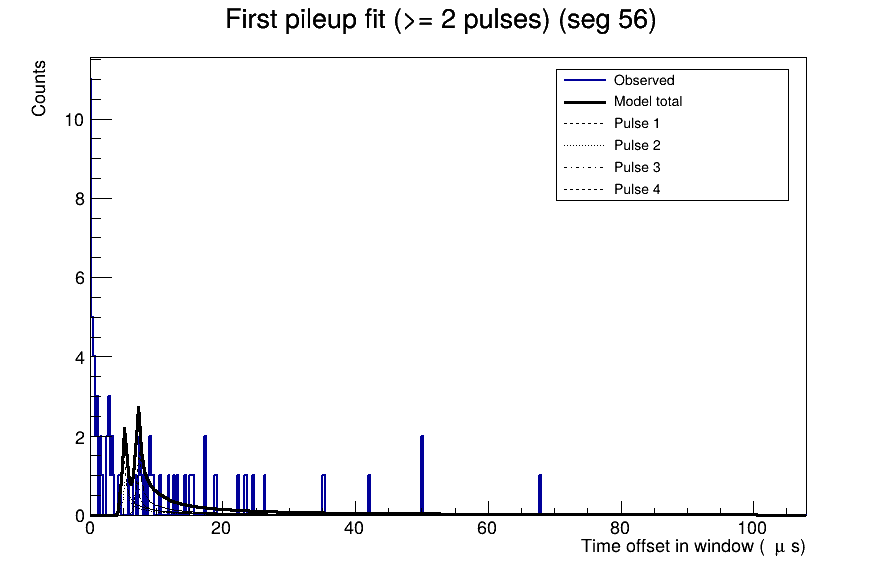
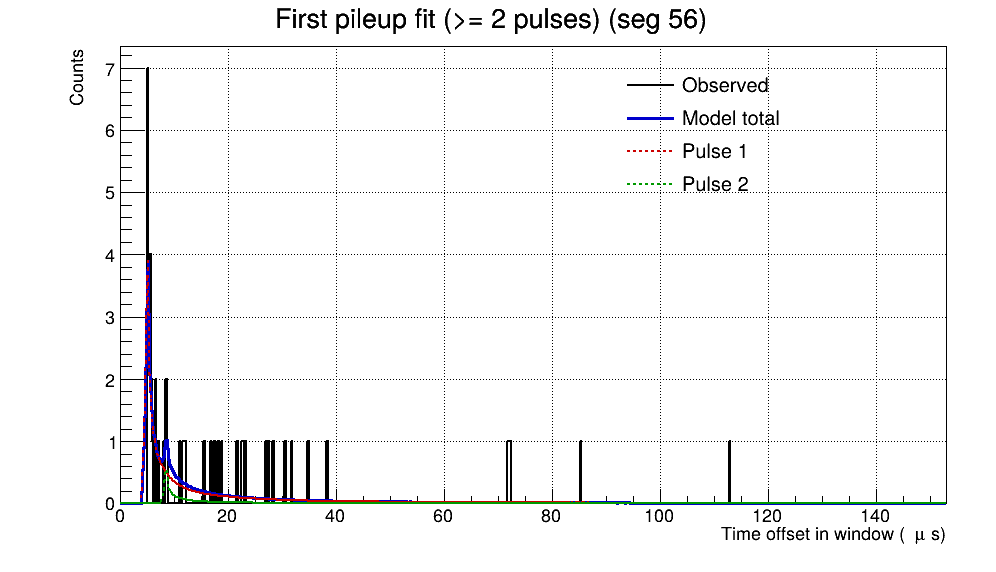
Fixed Plotting Alg.

diff --git a/src/Pulse_Fitting.cpp b/src/Pulse_Fitting.cpp
@@ -5,12 +5,32 @@
 #include <nlopt.hpp>
 #include <iostream>
 #include <limits>
+#include <stdexcept>
 
 using namespace std;
 
-std::vector<double> makeLogFactorialTable(int max_k) {
+static void dump_params_bounds(const vector<double>& params,
+                                const vector<double>& lb,
+                                const vector<double>& ub,
+                                int nPulses,
+                            const char* tag) 
+{
+    cerr << "\n=== NLopt debug dump: " << tag << " ===\n";
+    cerr << "nPulses=" << nPulses
+              << "  nParams=" << params.size() << " (PE[" << nPulses
+              << "], DT[" << nPulses << "])\n";
+    for (size_t i = 0; i < params.size(); ++i) {
+        string kind = (i < (size_t)nPulses) ? "PE" : "DT";
+        cerr << "  [" << std::setw(2) << i << "] " << kind
+                  << " : " << params[i]
+                  << "  bounds: [" << lb[i] << ", " << ub[i] << "]\n";
+    }
+    cerr << "=== end dump ===\n\n";
+}
+
+vector<double> makeLogFactorialTable(int max_k) {
     // precompute log(k!) for small k (speed Poisson logL at low counts)
-    std::vector<double> table(max_k);
+    vector<double> table(max_k);
     for (int k = 0; k < max_k; ++k) {
         table[k] = std::lgamma(k + 1.0);
     }
@@ -135,6 +155,19 @@ bool Pulse_Fitting::makeHistogram(const vector<double>& times, int i, double bin
         }
     }
 
+    // --- NEW: prepend 5 us worth of empty bins so fitter origin is at -5 us (due to PDF generate algorithm in Pulse_Tail.cpp) ---
+    const double prepad_us = 5.0;
+    int pre_bins = static_cast<int>(std::llround(prepad_us / binWidth));
+    if (pre_bins > 0) {
+        hist.insert(hist.begin(), pre_bins, 0);
+
+        // rebuild xCenters to stay aligned (0, 1*binWidth, ...)
+        vector<double>newX(hist.size());
+        for (size_t b = 0; b < newX.size(); ++b) newX[b] = b * binWidth;
+        xCenters.swap(newX);
+    }
+    // --- end NEW (August 20, 2025) ---
+
     return true;
 }
 
@@ -200,40 +233,18 @@ void Pulse_Fitting::fitRegion(const vector<double>& data_us,
                 return std::make_pair(std::move(total), std::move(comps));
             };
 
-            auto [totalExp, comps] = build_components(fittedPEs, fittedDTs, pdfLookup);
-            
-            cout << "PE: " << endl;
-            for (const auto& val : fittedPEs) cout << val << ", ";
-            cout << "\n" << endl;
-            cout << "DT: " << endl;
-            for (const auto& val : fittedDTs) cout << val << ", ";
-            cout << "\n" << endl;
-
-            cout << "=== CAPTURE DEBUG (" << (need_single ? "single" : "pileup") << ") ===" << endl;
-
-            // hist
-            cout << "hist: ";
-            for (auto v : hist) cout << v << " ";
-            cout << endl;
-
-            // xCenters
-            cout << "xCenters: ";
-            for (auto v : xCenters) cout << v << " ";
-            cout << endl;
-
-            // total expectation
-            cout << "total: ";
-            for (auto v : totalExp) cout << v << " ";
-            cout << endl;
-
-            // components
-            for (size_t k = 0; k < comps.size(); ++k) {
-                cout << "comp[" << k << "]: ";
-                for (auto v : comps[k]) cout << v << " ";
-                cout << endl;
+            for (size_t k = 0; k < fittedDTs.size(); ++k) {
+                double dt = fittedDTs[k];
+                double nearest = std::round(dt);
+                if (std::fabs(dt - nearest) > 1e-6) {
+                    std::cout << "Pulse " << k << ": DT=" << dt << " (non-integer, nearest=" << nearest << ")\n";
+                } else {
+                    std::cout << "Pulse " << k << ": DT=" << dt << " (integer-like)\n";
+                }
             }
-            cout << "=============================" << endl;
 
+            auto [totalExp, comps] = build_components(fittedPEs, fittedDTs, pdfLookup);
+    
             if (need_single) {
                 single_hist_ = hist;
                 single_x_ = xCenters;
@@ -250,11 +261,15 @@ void Pulse_Fitting::fitRegion(const vector<double>& data_us,
             }
         }
 
+        // --- NEW: convert DT to absolute time with +5us correction ---
+        const double binWidth = binWidth_;
+        const int pre_bins = static_cast<int>(std::llround(5.0 / binWidth));
         for (size_t k = 0; k < fittedPEs.size(); ++k) {
-            double pulse_time_us = startTime + fittedDTs[k] * (xCenters[1] - xCenters[0]);
+            double pulse_time_us = startTime + fittedDTs[k] * binWidth + 5.0; // +5us correction
             output.emplace_back(pulse_time_us, fittedPEs[k], windowCount, windowWidth, fittedPEs.size() > 1); // store result
             // cout << (double)j/(double)N << ", " << pulse_time_us / 1e6 << ", " << fittedPEs[k] << ", " << endl;
         }
+        // --- end NEW (August 20, 2025) ---
 
         windowCount++;
         i = j;
@@ -302,7 +317,7 @@ double Pulse_Fitting::negLogLikelihood(const vector<double>& params, const vecto
     vector<double> expected(observed.size(), 0.0);
     for (int i = 0; i < nPulses; ++i) {
         double PE = params[i];
-        int dt = static_cast<int>(params[nPulses + i]);
+        int dt = (int)std::llround(params[nPulses + i]);
         for (size_t j = 0; j < observed.size(); ++j) {
             expected[j] += PE * pdfLookup[dt][j];
         }
@@ -310,15 +325,15 @@ double Pulse_Fitting::negLogLikelihood(const vector<double>& params, const vecto
     return -poissonLogLikelihood(observed, expected);
 }
 
-vector<int> Pulse_Fitting::findGradientPeaks(const vector<int>& hist, double thresholdFactor, int ignoreIdx) {
+vector<int> Pulse_Fitting::findGradientPeaks(const vector<int>& hist, double thresholdFactor) {
     // simple gradient-based seed find; thresholdFactor in units of grad "std"
-    if ((int)hist.size() <= ignoreIdx + 2) {
+    if ((int)hist.size() <= 2) {
         return {};
     }
 
-    vector<double> grad(hist.size() - ignoreIdx);
-    for (size_t i = ignoreIdx; i + 1 < hist.size(); ++i) {
-        grad[i - ignoreIdx] = static_cast<double>(hist[i + 1] - hist[i - 1]) / 2.0;
+    vector<double> grad(hist.size());
+    for (size_t i = 0; i + 1 < hist.size(); ++i) {
+        grad[i] = static_cast<double>(hist[i + 1] - hist[i - 1]) / 2.0;
     }
 
     double sumSq = 0.0;
@@ -342,18 +357,26 @@ bool Pulse_Fitting::fitPulses(const vector<int>& hist, const vector<double>& xCe
     // seed candidates from gradient; then NLOpt (bounded) to fit PE, dt
     const int minPE = 5;
     const int window = 5;
-    const int ignoreIdx = 3;
+
+    // Compute pre_bins from current bin width (5 us target) (August 20, 2025)
+    const double binWidth = binWidth_;
+    const int pre_bins = static_cast<int>(std::llround(5.0 / binWidth));
 
     // Use separate gradient peak detection function
-    vector<int> peaks = findGradientPeaks(hist, 2.0, ignoreIdx);
+    vector<int> peaks = findGradientPeaks(hist, 2.0);
 
+    // --- Changed: default seed at PE=20, DT=5us (== pre_bins) ---
     vector<double> peGuess = {20.0};
     vector<double> dtGuess = {0.0};
+    // --- end Changed (August 20, 2025) ---
+
     for (int p : peaks) {
-        int idx = p + ignoreIdx;
-        int start = idx;
+        if (p < pre_bins + 1) continue;
+        int idx = p - pre_bins;
+        if (idx < 0 || idx > (int)hist.size()) continue;
+
         int end = min(idx + window, static_cast<int>(hist.size()));
-        int sum = accumulate(hist.begin() + start, hist.begin() + end, 0);
+        int sum = accumulate(hist.begin() + idx, hist.begin() + end, 0);
 
         if (sum >= minPE) {
             peGuess.push_back(sum);
@@ -379,14 +402,17 @@ bool Pulse_Fitting::fitPulses(const vector<int>& hist, const vector<double>& xCe
     params.insert(params.end(), newDT.begin(), newDT.end());
 
     vector<double> lb, ub;
+    // PE bounds
     for (int i = 0; i < nPulses; ++i) {
         lb.push_back(1.0);
         ub.push_back(300.0);
     }
+    // DT bounds --- Changed: lower bound locked at pre_bins (== 5us) ---
     for (int i = 0; i < nPulses; ++i) {
         lb.push_back(0.0);
         ub.push_back(static_cast<double>(xCenters.size() - 1));
     }
+    // --- end Changed (August 20, 2025) ---
 
     nlopt::opt opt(nlopt::LN_BOBYQA, params.size()); // derivative-free local
     opt.set_lower_bounds(lb);
@@ -407,7 +433,8 @@ bool Pulse_Fitting::fitPulses(const vector<int>& hist, const vector<double>& xCe
     try {
         nlopt::result result = opt.optimize(params, minf);
     } catch (exception& e) {
-        cerr << "NLopt failed: " << e.what() << endl;
+        dump_params_bounds(params, lb, ub, nPulses, "on-error");
+        throw std::runtime_error("Fatal NLopt failure, exiting.");
         return false;
     }
 
@@ -460,7 +487,8 @@ bool Pulse_Fitting::fitPulses(const vector<int>& hist, const vector<double>& xCe
             fittedPEs.assign(refinedParams.begin(), refinedParams.begin() + refinedN);
             fittedDTs.assign(refinedParams.begin() + refinedN, refinedParams.end());
         } catch (exception& e) {
-            cerr << "Refined NLopt failed: " << e.what() << endl;
+            dump_params_bounds(refinedParams, lb, ub, refinedN, "on-error refined");
+            throw std::runtime_error("Fatal NLopt failure, exiting.");
             return false;
         }
     } else {

diff --git a/src/Pulse_Analysis.cpp b/src/Pulse_Analysis.cpp
@@ -26,50 +26,60 @@ static void plot_fit_window(const std::string& out_png,
         return;
 	
     gStyle->SetOptStat(0);
-    TCanvas* c = new TCanvas("c_fit", "Fit window", 900, 600);
+	std::string cname = "c_fit_" + out_png;
+    TCanvas* c = new TCanvas(cname.c_str(), "Fit window", 1000, 600);
+	c->SetMargin(0.12, 0.05, 0.12, 0.08);
+	c->SetGrid(1, 1);
 	
 	// Histogram (observed) with variable bin edges from x (left edges)
 	const int nb = (int)hist.size();
 	const double dx = (x.size() > 1 ? (x[1] - x[0]) : 1.0);
 
-	// Build edges: [x[0], x[1], ..., x[nb-1], x[nb-1]+dx]
-	std::vector<double> edges(nb + 1);
-	for (int i = 0; i < nb; ++i) edges[i] = x[i];
-	edges[nb] = x.back() + dx;
-
     // Histogram (observed)
-    TH1D* h = new TH1D("h_obs", title.c_str(), (int)hist.size(), 0.0, x.back() + (x.size() > 1 ? (x[1]-x[0]) : 1.0));
-    for (size_t i = 0; i < hist.size(); ++i) h->SetBinContent((int)i+1, hist[i]);
+	std::string hname = "h_obs_" + out_png;
+    TH1D* h = new TH1D(hname.c_str(), title.c_str(), nb, 0.0, x.back() + dx);
+    h->SetDirectory(nullptr); // don't register to gDirectory (August 20, 2025)
+	for (int i = 0; i < nb; ++i) h->SetBinContent((int)i+1, hist[i]);
     h->GetXaxis()->SetTitle("Time offset in window (#mu s)");
     h->GetYaxis()->SetTitle("Counts");
+	h->SetLineColor(kBlack);
     h->SetLineWidth(2);
     h->Draw("HIST");
 
     // Total model
     TGraph* gtot = new TGraph(nb);
 	for (int i = 0; i < nb; ++i) gtot->SetPoint(i, x[i], total[i]);
+	gtot->SetLineColor(kBlue+1);
 	gtot->SetLineWidth(3);
 	gtot->Draw("L SAME");
 
     // Components
     TLegend* leg = new TLegend(0.62, 0.65, 0.88, 0.88);
+	leg->SetBorderSize(0);
+	leg->SetFillStyle(0);
     leg->AddEntry(h, "Observed", "l");
     leg->AddEntry(gtot, "Model total", "l");
 
+    int colors[6] = {kRed+1, kGreen+2, kMagenta+1, kOrange+1, kCyan+2, kViolet};
     for (size_t k = 0; k < comps.size(); ++k) {
         TGraph* gk = new TGraph((int)comps[k].size());
         for (int i = 0; i < (int)comps[k].size(); ++i) {
-            double xc = h->GetBinLowEdge(i+1);
-            gk->SetPoint(i, xc, comps[k][i]);
+            gk->SetPoint(i, x[i], comps[k][i]);
         }
-        gk->SetLineStyle(2 + (int)k % 3);
-        gk->Draw("L SAME");
+		gk->SetLineStyle(2);
+        gk->SetLineWidth(2);
+        gk->SetLineColor(colors[k % 6]);
+		gk->Draw("L SAME");
         leg->AddEntry(gk, Form("Pulse %d", (int)k+1), "l");
     }
     leg->Draw();
 
     c->SaveAs(out_png.c_str());
-    delete c;
+
+    delete h;
+	delete gtot;
+	delete leg;
+	delete c;
 }
 
 // Set up and run the analysis, output to csv file

diff --git a/include/Pulse_Fitting.h b/include/Pulse_Fitting.h
@@ -108,11 +108,11 @@ class Pulse_Fitting {
                                 const std::vector<std::vector<double>>& pdfLookup,
                                 int nPulses); // seed candidates
 
-        std::vector<int> findGradientPeaks(const std::vector<int>& hist, double threshold, int ignoreIdx); // NLOpt fit over PE, DT per pulse
+        std::vector<int> findGradientPeaks(const std::vector<int>& hist, double threshold);
                                 
         bool fitPulses(const std::vector<int>& hist, const std::vector<double>& xCenters,
                     const std::vector<std::vector<double>>& pdfLookup,
-                    std::vector<double>& fittedPEs, std::vector<double>& fittedDTs);
+                    std::vector<double>& fittedPEs, std::vector<double>& fittedDTs); // NLOpt fit over PE, DT per pulse
 };
 
 #endif // PULSE_FITTING_H

diff --git a/src/File_Loader.cpp b/src/File_Loader.cpp
@@ -175,7 +175,7 @@ Config load_config(int argc, char** argv, const std::string& default_cfg) {
 		f >> cfg;
 	}
 
-	if (argc >= 8) {
+	if (argc == 7) {
 		// override config via CLI args (full mode)
         cfg["data_folder"]   = std::string(argv[1]);
         cfg["output_folder"] = std::string(argv[2]);
@@ -183,7 +183,7 @@ Config load_config(int argc, char** argv, const std::string& default_cfg) {
         cfg["good_runs"]     = std::string(argv[4]);
         cfg["start_run"]     = std::stoi(argv[5]);
         cfg["end_run"]       = std::stoi(argv[6]);
-        cfg["save_to_txt"]   = (string(argv[7]) == "true");
+		// Note: save_to_txt is *not* settable from CLI anymore
     } else if (argc != 1 && argc != 2) {
         // throw hint on bad arg count
 		throw std::runtime_error(
